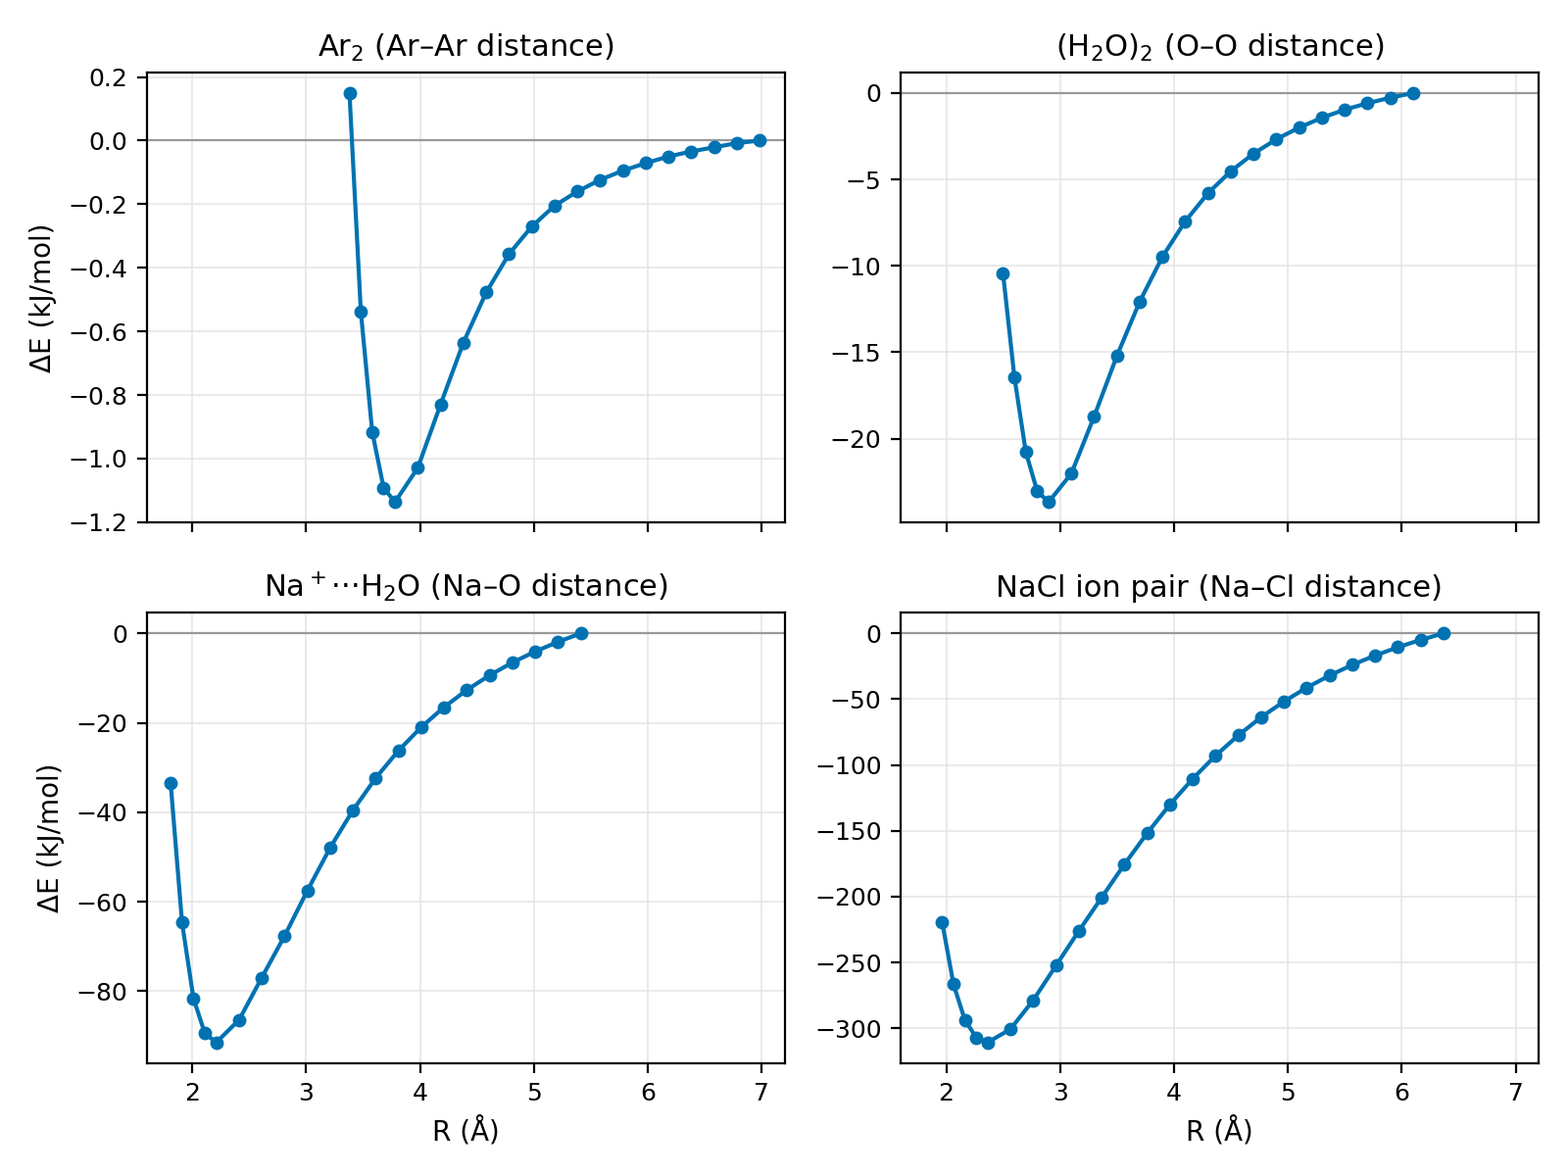
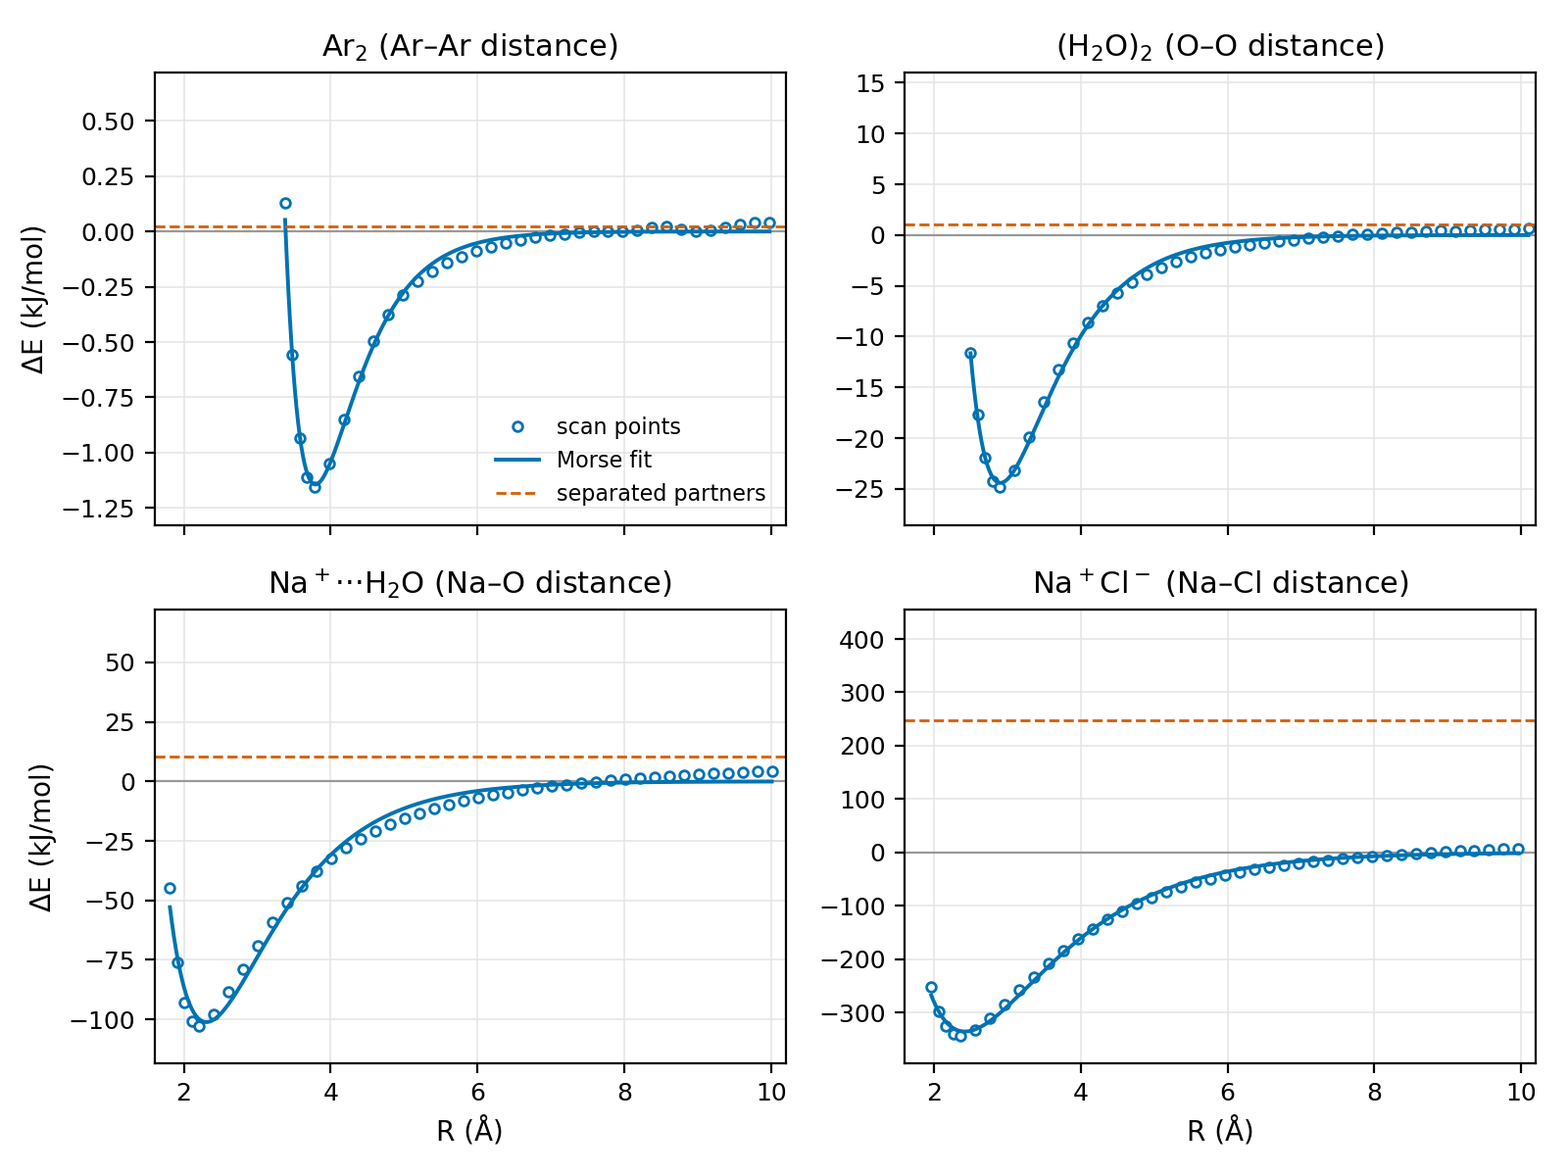
Chapters 67-68: interaction curves to 10 A, Morse fit, separated partners as zero
The old figure used each pair's largest-R point as zero, but none of the
curves had flattened there. Now:
- outward relaxed scans to about 10 A for all four pairs (inward unchanged
  in range), rerun headless through ECCE on nerdegg (oo_scan.py, build of
  c0464253b);
- the separated partners (H2O optimised; Ar, Na+, Cl- single points) as
  ECCE calculations at the same level, made with the new oo_scan.py
  --plain and --series (ecce-series) options;
- ecce-morse's fit of inward+outward points together (fit_curves.py;
  ecce-morse <calc> takes one calculation and needs points on both sides
  of the minimum, which neither direction has alone);
- figure: points, Morse line, zero at the fitted asymptote, dashed line at
  the separated partners; table: r_e, D_e, dE_min and dE(R_max) vs the
  separated partners. Morse marked as a poor form for the ionic pairs.

Claude-Session: https://claude.ai/code/session_01LPtdCqiFHmFNbScUSGgzbs

diff --git a/calculations/hydrogen-bond/oo_scan.py b/calculations/hydrogen-bond/oo_scan.py
@@ -4,6 +4,7 @@
     ECCE_SRC=<checkout> ECCE_TEST_HOME=<install>/ecce ECCE_TEST_WRAPPERS=<install>/bin \\
         python3 oo_scan.py <out dir> <example> <atom I> <atom J> <name:steps:step> [...]
         [--data DIR] [--calc NAME] [--post-only] [--timeout S]
+        [--plain] [--series NAME:XYZ:CHARGE ...]
 
 <example> is the folder under data/client/examples, e.g.
 genchem/intermolecular-interactions/ecceqm-h2o_dimer. The stored calculation in its
@@ -17,6 +18,12 @@ panel is exported to <out>/<NAME>.csv and drawn on white to <out>/<NAME>.png.
 While waiting, an Organizer stays open and reconnects (Run Mgmt > Reconnect)
 any scan whose job monitor has gone, so a job outlives the Launcher that
 started it. --post-only does the same for scans left Waiting, then exports.
+
+--plain sets no constraint (each NAME is a plain geometry optimisation) and
+copies each output to <out> instead of exporting a scan. --series makes
+further calculations from the first one with ecce-series (structure from an
+.xyz file, its charge given), run as single points: monomers and atoms with
+the same setup as the scans.
 """
 import argparse, glob, os, re, shutil, subprocess, sys, time
 REPO = os.environ.get("ECCE_SRC", "ECCE")
@@ -34,6 +41,8 @@ ap.add_argument("--data", default=None)
 ap.add_argument("--calc", default=None)
 ap.add_argument("--post-only", action="store_true")
 ap.add_argument("--timeout", type=int, default=6 * 3600)
+ap.add_argument("--plain", action="store_true")
+ap.add_argument("--series", action="append", default=[])
 A = ap.parse_args()
 OUT = os.path.abspath(A.out)
 os.makedirs(OUT, exist_ok=True)
@@ -41,8 +50,9 @@ STUDY = A.example.rstrip("/").split("/")[-1]
 DATA = os.path.abspath(A.data or os.path.join(os.path.expanduser("~"), "tmp", "ecce", "oo-scan-data", STUDY))
 SCANS = []
 for s in A.scans:
-    n, steps, step = s.split(":")
-    SCANS.append((n, int(steps), float(step)))
+    n, steps, step = (s + "::").split(":")[:3]
+    SCANS.append((n, int(steps or 0), float(step or 0)))
+SERIES = [s.split(":") for s in A.series]
 
 
 def meta_set(path, key, value):
@@ -170,24 +180,39 @@ def main():
             m = os.path.join(d, ".ecce-meta")
             meta_set(m, "state", "Ready"); meta_set(m, "runtype", "Geometry")
             meta_set(m, "launch_machine", "localhost")
-            meta_set(m, "annotation", "Relaxed scan of atoms %d-%d, %d steps of %g A" % (i, j, steps, step))
+            meta_set(m, "annotation", "Geometry optimisation" if A.plain else
+                     "Relaxed scan of atoms %d-%d, %d steps of %g A" % (i, j, steps, step))
     os.environ["ECCE_LOCAL_DATA"] = DATA
     xdisplay.SCREEN = "1500x950x24"
     with xdisplay.Display() as display:
         subprocess.run([os.path.join(apps.INSTALL, "bin", "ecce-gateway-start")], env=display.env(), timeout=180)
         try:
             if not A.post_only:
+                for n, xyz, charge in SERIES:
+                    r = subprocess.run([os.path.join(apps.WRAPPERS, "ecce-series"), "--charge", charge,
+                                        os.path.join(root, SCANS[0][0]), root, os.path.abspath(xyz)],
+                                       env=display.env(), capture_output=True, text=True, timeout=300)
+                    print("ecce-series", n, r.returncode, r.stdout, r.stderr[-800:], flush=True)
+                    made = os.path.join(root, os.path.splitext(os.path.basename(xyz))[0])
+                    if made != os.path.join(root, n) and os.path.isdir(made):
+                        os.rename(made, os.path.join(root, n))
+                single = {n for n, _, _ in SERIES}
+                SCANS.extend((n, 0, 0.0) for n in single)
                 for n, steps, step in SCANS:
                     url = "file://" + os.path.join(root, n) + "/"
-                    log = app(display, "builder", "ECCE_BUILDER_SCRIPT",
-                              ["wait 4000", "constraints select %d %d" % (i, j),
-                               "constraints scan %d %g yes" % (steps, step), "constraints list", "save",
-                               "wait 2500", "constraints stored", "wait 500", "quit"], url)
+                    if A.plain or n in single:
+                        log = ""
+                    else:
+                      log = app(display, "builder", "ECCE_BUILDER_SCRIPT",
+                                ["wait 4000", "constraints select %d %d" % (i, j),
+                                 "constraints scan %d %g yes" % (steps, step), "constraints list", "save",
+                                 "wait 2500", "constraints stored", "wait 500", "quit"], url)
                     print(n, "\n".join(l for l in log.splitlines() if "constraint" in l or "FAIL" in l))
                     log = app(display, "calced", "ECCE_CALCED_SCRIPT",
                               # No "ready": a stored calc that already holds theory values starts
                               # no theory dialog, so "ready" would wait forever.
-                              ["wait 8000", "runtype Geometry", "wait 6000", "button save",
+                              ["wait 8000", "runtype " + ("Energy" if n in single else "Geometry"),
+                               "wait 6000", "button save",
                                "wait 6000", "info", "quit"], url)
                     print(n, "\n".join(l for l in log.splitlines() if "CALCED" in l or "FAIL" in l)[-800:])
                     qmin = glob.glob(os.path.join(root, n, "Inputs", "*.qmin"))
@@ -202,7 +227,15 @@ def main():
                               ["wait 3000", "machine localhost", "rundir " + run, "wait 1500", "launch",
                                "wait 8000", "quit"], url, settle=30)
                     print(n, "\n".join(l for l in log.splitlines() if "LAUNCHER" in l or "FAIL" in l)[-600:])
+            else:
+                SCANS.extend((n, 0, 0.0) for n, _, _ in SERIES)
             wait_for_jobs(display, root)
+            if A.plain or SERIES:
+                for n, _, _ in SCANS:
+                    for f in glob.glob(os.path.join(root, n, "Outputs", "*.qmout")):
+                        shutil.copy(f, os.path.join(OUT, n + ".qmout"))
+                print("states:", {n: meta_get(os.path.join(root, n, ".ecce-meta"), "state") for n, _, _ in SCANS})
+                return
             for n, steps, step in SCANS:
                 url = "file://" + os.path.join(root, n) + "/"
                 scene = os.path.join(DATA, "scene-" + n)

diff --git a/chapters/teaching-hydrogen-bond.tex b/chapters/teaching-hydrogen-bond.tex
@@ -38,28 +38,31 @@ The dimer is \SI{26}{kJ.mol^{-1}} below two separate molecules ($-152.862864$ ag
 \index{Zero-point energy}\index{Basis-set superposition error}
 
 \section{Interaction curves}
-The same topic holds three more pairs, the argon dimer \emph{ar\_dimer}, a sodium ion with one water molecule \emph{na\_h2o} and the NaCl ion pair \emph{nacl\_ion\_pair}, made with the same method. A relaxed scan of the distance between the two partners (Chapter~\ref{ch:scans}), inward and outward from each optimised pair, gives the four curves of figure~\ref{fig:hb-curves}, and table~\ref{tab:hb-curves} lists their minima. The wells span more than two orders of magnitude, from \SI{1.1}{kJ.mol^{-1}} for the London dispersion between two argon atoms to \SI{311}{kJ.mol^{-1}} for the ion pair, with the hydrogen bond near the weak end. None of the curves has flattened out at its largest distance, so the depths are lower bounds on the binding energy; for the water dimer the scan gives \SI{23.7}{kJ.mol^{-1}} at \SI{6.1}{\angstrom} against the \SI{26}{kJ.mol^{-1}} from the separate molecules above. The NaCl calculation keeps one closed-shell wavefunction at every distance, so it stays Na$^+$Cl$^-$ and cannot reach the neutral atoms into which the molecule dissociates; at \SI{6.4}{\angstrom} the two ions still attract each other by about \SI{220}{kJ.mol^{-1}} from Coulomb's law alone. The energies are not counterpoise-corrected (ECCE issue 1091).
+The same topic holds three more pairs, the argon dimer \emph{ar\_dimer}, a sodium ion with one water molecule \emph{na\_h2o} and the NaCl ion pair \emph{nacl\_ion\_pair}, made with the same method. A relaxed scan of the distance between the two partners (Chapter~\ref{ch:scans}), inward from each optimised pair and outward to about \SI{10}{\angstrom}, gives the four curves of figure~\ref{fig:hb-curves}. ECCE's Morse fit (\texttt{ecce-morse}) of the inward and outward points together gives the depth $D_\mathrm{e}$ and the minimum $r_\mathrm{e}$, with the zero at the fitted asymptote. Table~\ref{tab:hb-curves} lists them next to $\Delta E_\mathrm{min}$, the lowest scan point minus the energies of the separated partners (Ar; H$_2$O; Na$^+$ and H$_2$O; Na$^+$ and Cl$^-$), each calculated alone with the same method. The wells span more than two orders of magnitude, from \SI{1.2}{kJ.mol^{-1}} for argon to \SI{592}{kJ.mol^{-1}} for the ion pair, with the hydrogen bond near the weak end; the \SI{25.9}{kJ.mol^{-1}} of the water dimer is the \SI{26}{kJ.mol^{-1}} from the separate molecules above.
+
+For Ar$_2$ and the water dimer the curve is flat by \SI{10}{\angstrom}, and the Morse depth and $\Delta E_\mathrm{min}$ agree to within \SI{2}{kJ.mol^{-1}}. For the two ionic pairs the Morse form is a poor one: its attraction decays exponentially, while the ion--dipole attraction falls off as $R^{-2}$ and the attraction between two ions as $R^{-1}$. At \SI{10}{\angstrom} Na$^+\cdots$H$_2$O is still \SI{6}{kJ.mol^{-1}} and the ion pair \SI{241}{kJ.mol^{-1}} below the separated partners, so the fitted asymptote lies too low and the Morse depth is too small. The dispersion tail goes as $R^{-6}$; the Morse curve fits the argon points to \SI{0.02}{kJ.mol^{-1}} rms but falls off too early between 4 and \SI{7}{\angstrom}. The NaCl calculation keeps one closed-shell wavefunction at every distance, so it stays Na$^+$Cl$^-$; its reference is the separated ions, not the neutral atoms into which the molecule really dissociates, which lie lower. The energies are not counterpoise-corrected (ECCE issue 1091).
 \index{Relaxed scan!interaction curves}\index{London dispersion}\index{Ion pair}
 
 \begin{figure}[htbp]
 	\centering
 	\includegraphics[width=0.9\linewidth]{hydrogen-bond/interaction-curves.ecce-9.5.3-dev.png}
-	\caption{Relaxed distance scans of four pairs (ECCE-QM, B3LYP-D3(BJ)/def2-TZVP, uncorrected for basis-set superposition). Each curve is relative to its own point at the largest distance scanned, and each panel has its own energy scale.}
+	\caption{Relaxed distance scans of four pairs (ECCE-QM, B3LYP-D3(BJ)/def2-TZVP, not counterpoise-corrected). Circles: scan points; line: Morse fit, whose asymptote is the zero; dashed: the separated partners (for NaCl the separated ions). Each panel has its own energy scale.}
 	\label{fig:hb-curves}
 \end{figure}
 
 \begin{table}[htbp]
 	\centering
-	\caption{Minima of the curves in figure~\ref{fig:hb-curves}. $R_\mathrm{eq}$ is the lowest point on the scan grid (steps of 0.1~\AA\ inward, 0.2~\AA\ outward); the depth is relative to the largest distance scanned, $R_\mathrm{max}$, and is not counterpoise-corrected.}
+	\caption{Minima of the curves in figure~\ref{fig:hb-curves}. $r_\mathrm{e}$ and $D_\mathrm{e}$ are from the Morse fit; $\Delta E_\mathrm{min}$ is the lowest scan point and $\Delta E(R_\mathrm{max})$ the point at the largest distance scanned, both relative to the separated partners. Energies in kJ/mol, not counterpoise-corrected. $^\dagger$Morse is a poor form for this curve (see text).}
 	\label{tab:hb-curves}
-	\begin{tabular}{llrrr}
+	\small
+	\begin{tabular}{llrrrrr}
 		\toprule
-		Pair (distance) & Interaction & $R_\mathrm{eq}$ (\AA) & Depth (kJ/mol) & $R_\mathrm{max}$ (\AA) \\
+		Pair (distance) & Interaction & $r_\mathrm{e}$ (\AA) & $D_\mathrm{e}$ & $\Delta E_\mathrm{min}$ & $\Delta E(R_\mathrm{max})$ & $R_\mathrm{max}$ (\AA) \\
 		\midrule
-		Ar$_2$ (Ar--Ar) & London dispersion & 3.78 & 1.1 & 6.98 \\
-		(H$_2$O)$_2$ (O--O) & hydrogen bond & 2.90 & 23.7 & 6.10 \\
-		Na$^+\cdots$H$_2$O (Na--O) & ion--dipole & 2.21 & 91.5 & 5.41 \\
-		NaCl (Na--Cl) & ion pair (Coulombic) & 2.36 & 310.7 & 6.36 \\
+		Ar$_2$ (Ar--Ar) & London dispersion & 3.79 & 1.1 & $-1.2$ & 0.0 & 9.98 \\
+		(H$_2$O)$_2$ (O--O) & hydrogen bond & 2.90 & 24.4 & $-25.9$ & $-0.4$ & 10.10 \\
+		Na$^+\cdots$H$_2$O (Na--O) & ion--dipole & 2.31 & 101$^\dagger$ & $-113.2$ & $-6.0$ & 10.01 \\
+		NaCl (Na--Cl) & ion pair (Coulombic) & 2.42 & 336$^\dagger$ & $-591.5$ & $-241.2$ & 9.96 \\
 		\bottomrule
 	\end{tabular}
 \end{table}

diff --git a/calculations/hydrogen-bond/plot_curves.py b/calculations/hydrogen-bond/plot_curves.py
@@ -1,53 +1,72 @@
 #!/usr/bin/env python3
-"""Interaction curves of four pairs from ECCE's Relaxed Scan CSV exports.
+"""Interaction curves of four pairs: scan points, ECCE's Morse fit, separated partners.
 
     python3 plot_curves.py <out.png>
 
-Reads curves/<pair>_{inward,outward}.csv (made by oo_scan.py), draws one panel
-per pair with ΔE relative to that pair's largest-R point, and prints the
-table rows (R_eq, depth, largest R). Separate panels because the depths span
-1 to 300 kJ/mol; the Relaxed Scan panel's Compare... draws every curve
-relative to its own lowest point, which is not the reference wanted here.
+Reads curves/<pair>_{inward,outward}.csv (Relaxed Scan panel exports made by
+oo_scan.py), curves/morse.json (ecce-morse's fit of the inward and outward
+points together, made by fit_curves.py) and curves/monomers.csv (energies of
+the separated partners). Each panel is drawn relative to the fitted Morse
+asymptote; the dashed line is the sum of the separated partners. Separate
+panels because the depths span 1 to 300 kJ/mol. Prints the table rows.
 """
-import csv, os, sys
+import csv, json, math, os, sys
 import matplotlib
 matplotlib.use("Agg")
 import matplotlib.pyplot as plt
 
 HERE = os.path.dirname(os.path.abspath(__file__))
-HARTREE = 2625.499639  # kJ/mol
-PAIRS = [("ar_dimer", "Ar$_2$", "Ar–Ar"),
-         ("h2o_dimer", "(H$_2$O)$_2$", "O–O"),
-         ("na_h2o", "Na$^+$···H$_2$O", "Na–O"),
-         ("nacl_ion_pair", "NaCl ion pair", "Na–Cl")]
+HARTREE = 2625.4996394799  # kJ/mol, as ecce-morse
+PAIRS = [("ar_dimer", "Ar$_2$", "Ar–Ar", ("ar", "ar")),
+         ("h2o_dimer", "(H$_2$O)$_2$", "O–O", ("h2o", "h2o")),
+         ("na_h2o", "Na$^+$···H$_2$O", "Na–O", ("na", "h2o")),
+         ("nacl_ion_pair", "Na$^+$Cl$^-$", "Na–Cl", ("na", "cl"))]
+
+
+def rows(path):
+    with open(path) as f:
+        return list(csv.DictReader(l for l in f if not l.startswith("#")))
 
 
 def load(pair):
     pts = {}
     for d in ("inward", "outward"):
-        with open(os.path.join(HERE, "curves", "%s_%s.csv" % (pair, d))) as f:
-            for row in csv.reader(l for l in f if not l.startswith("#")):
-                if row[0] == "point":
-                    continue
-                pts[round(float(row[1]), 4)] = float(row[2])
+        for row in rows(os.path.join(HERE, "curves", "%s_%s.csv" % (pair, d))):
+            pts[round(float(row["coordinate_angstrom"]), 4)] = float(row["energy_hartree"])
     r = sorted(pts)
     return r, [pts[x] for x in r]
 
 
+mono = {r["calculation"]: float(r["energy_hartree"]) for r in rows(os.path.join(HERE, "curves", "monomers.csv"))}
+fits = json.load(open(os.path.join(HERE, "curves", "morse.json")))
 fig, axes = plt.subplots(2, 2, figsize=(8, 6), sharex=True)
-for ax, (pair, label, coord) in zip(axes.flat, PAIRS):
+for ax, (pair, label, coord, parts) in zip(axes.flat, PAIRS):
     r, e = load(pair)
-    de = [(x - e[-1]) * HARTREE for x in e]
-    i = min(range(len(de)), key=de.__getitem__)
-    print("%-14s R_eq %.2f  depth %.1f kJ/mol  (largest R %.2f, %d points)"
-          % (pair, r[i], -de[i], r[-1], len(r)))
+    f = fits[pair]
+    einf = f["Einf_hartree"]
+    sep = sum(mono[p] for p in parts)
+    i = min(range(len(e)), key=e.__getitem__)
+    print("%-14s Morse De %.1f re %.2f rms %.2f | dE(min) vs separated %.1f at %.2f | "
+          "dE(Rmax) vs separated %.1f, vs Morse asymptote %.2f | Rmax %.2f, %d points"
+          % (pair, f["De_kJ_per_mol"], f["re_A"], f["rms_kJ_per_mol"], (e[i] - sep) * HARTREE,
+             r[i], (e[-1] - sep) * HARTREE, (e[-1] - einf) * HARTREE, r[-1], len(r)))
+    De, a, re_ = f["De_kJ_per_mol"], f["a_per_A"], f["re_A"]
+    xs = [r[0] + (r[-1] - r[0]) * k / 300 for k in range(301)]
     ax.axhline(0, color="#999999", lw=0.8)
-    ax.plot(r, de, "-o", color="#0072B2", lw=1.5, ms=4)
+    ax.plot(r, [(x - einf) * HARTREE for x in e], "o", color="#0072B2", ms=3.5, mfc="white", mew=1.0,
+            label="scan points")
+    ax.plot(xs, [De * ((1 - math.exp(-a * (x - re_))) ** 2 - 1) for x in xs], "-", color="#0072B2", lw=1.4,
+            label="Morse fit")
+    ax.axhline((sep - einf) * HARTREE, color="#D55E00", lw=1.0, ls="--", label="separated partners")
     ax.set_title("%s (%s distance)" % (label, coord), fontsize=11)
-    ax.set_xlim(1.6, 7.2)
+    lo = min((x - einf) * HARTREE for x in e)
+    hi = max(0.0, (sep - einf) * HARTREE)
+    ax.set_ylim(1.15 * lo, hi - 0.6 * lo)
+    ax.set_xlim(1.6, math.ceil(r[-1]) + 0.2)
     ax.tick_params(labelsize=9)
     ax.grid(color="#e6e6e6", lw=0.6)
     ax.set_axisbelow(True)
+axes[0, 0].legend(fontsize=8, loc="lower right", frameon=False)
 for ax in axes[1]:
     ax.set_xlabel("R (Å)", fontsize=10)
 for ax in axes[:, 0]:

diff --git a/chapters/teaching-dispersion.tex b/chapters/teaching-dispersion.tex
@@ -14,9 +14,9 @@ Nothing beyond ECCE: the calculation is in the General Chemistry example set.
 The topic \menu{Intermolecular interactions} holds the argon dimer \emph{ar\_dimer}, optimised with the same method as the water dimer of Chapter~\ref{sec:hydrogen-bond}, ECCE-QM with B3LYP-D3(BJ)/def2-TZVP. B3LYP itself does not describe dispersion; in this calculation the attraction comes from the D3(BJ) term \cite{grimme2011} that is added to the energy. A scan of the Ar--Ar distance inward and outward from the optimised pair (Chapter~\ref{ch:scans}) gives the top-left curve of figure~\ref{fig:hb-curves}.
 
 \section{The curve}
-The lowest point is at \SI{3.78}{\angstrom}, and the well is \SI{1.1}{kJ.mol^{-1}} deep relative to the point at \SI{6.98}{\angstrom} (table~\ref{tab:hb-curves}). The curve still rises slightly at the far end, by less than \SI{0.01}{kJ.mol^{-1}} over the last \SI{0.2}{\angstrom}, so the depth is a lower bound on the binding energy, though not by much. The two sides of the well are very different: moving the atoms \SI{0.4}{\angstrom} closer than the minimum raises the energy by \SI{1.3}{kJ.mol^{-1}}, more than the whole depth of the well, while moving them \SI{0.4}{\angstrom} apart costs only \SI{0.3}{kJ.mol^{-1}}. The repulsion between the closed shells sets in abruptly, whereas the attraction dies away slowly with distance.
+The lowest point is at \SI{3.78}{\angstrom}, \SI{1.2}{kJ.mol^{-1}} below two separate argon atoms, and the Morse fit gives $D_\mathrm{e} = \SI{1.1}{kJ.mol^{-1}}$ at $r_\mathrm{e} = \SI{3.79}{\angstrom}$ (table~\ref{tab:hb-curves}). By \SI{10}{\angstrom} the curve is flat, within \SI{0.03}{kJ.mol^{-1}} of the separate atoms. The two sides of the well are very different: moving the atoms \SI{0.4}{\angstrom} closer than the minimum raises the energy by \SI{1.3}{kJ.mol^{-1}}, more than the whole depth of the well, while moving them \SI{0.4}{\angstrom} apart costs only \SI{0.3}{kJ.mol^{-1}}. The repulsion between the closed shells sets in abruptly, whereas the attraction dies away slowly with distance.
 
-The same figure shows the hydrogen bond of the water dimer, \SI{23.7}{kJ.mol^{-1}} deep at an O--O distance of \SI{2.90}{\angstrom}, about twenty times deeper than the argon well, and the ion--dipole and ion-pair curves, deeper still. Each panel has its own energy scale, so the four curves look much alike, and it is the numbers in table~\ref{tab:hb-curves} that show the difference. At room temperature $RT$ is \SI{2.5}{kJ.mol^{-1}}, more than twice the depth of the argon well, so collisions break an argon pair apart almost as soon as it forms.
+The same figure shows the hydrogen bond of the water dimer, \SI{25.9}{kJ.mol^{-1}} deep at an O--O distance of \SI{2.90}{\angstrom}, about twenty times deeper than the argon well, and the ion--dipole and ion-pair curves, deeper still. Each panel has its own energy scale, so the four curves look much alike, and it is the numbers in table~\ref{tab:hb-curves} that show the difference. At room temperature $RT$ is \SI{2.5}{kJ.mol^{-1}}, more than twice the depth of the argon well, so collisions break an argon pair apart almost as soon as it forms.
 
 The curve is not corrected for the basis-set superposition error, which makes the well somewhat too deep; the counterpoise correction is to come (ECCE issue 1091).
 \index{Basis-set superposition error}\index{Relaxed scan!interaction curves}

diff --git a/calculations/hydrogen-bond/fit_curves.py b/calculations/hydrogen-bond/fit_curves.py
@@ -1,0 +1,26 @@
+#!/usr/bin/env python3
+"""Morse fit of each pair's inward and outward scans together, with ecce-morse's own code.
+
+    ECCE_TEST_HOME=<install> python3 fit_curves.py <data dir> > curves/morse.json
+
+<data dir> holds one oo_scan.py --data folder per pair. ecce-morse <calc> takes
+one calculation and needs points on both sides of the minimum, which neither
+scan direction has alone, so its fit (analyse) is called on the union.
+"""
+import importlib.machinery, importlib.util, json, os, sys
+B = os.environ.get("ECCE_TEST_HOME", "/opt/ecce")
+ld = importlib.machinery.SourceFileLoader("ecce_morse", os.path.join(B, "bin", "ecce-morse"))
+M = importlib.util.module_from_spec(importlib.util.spec_from_loader("ecce_morse", ld)); ld.exec_module(M)
+D = sys.argv[1]
+MU = {"ar_dimer": (39.9624, 39.9624), "h2o_dimer": (15.9949, 15.9949),
+      "na_h2o": (22.9898, 15.9949), "nacl_ion_pair": (22.9898, 34.9689)}
+out = {}
+for pair, (m1, m2) in MU.items():
+    r, e = [], []
+    for d in ("inward", "outward"):
+        a, b = M.read_scan(os.path.join(D, pair, "users/local/qm", d))
+        r += a; e += b
+    res = M.analyse(r, e, m1 * m2 / (m1 + m2))
+    res["points"] = sorted(zip(r, e))
+    out[pair] = res
+json.dump(out, sys.stdout, indent=1)
